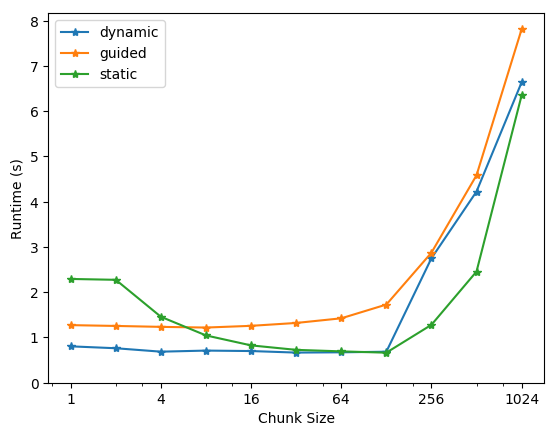
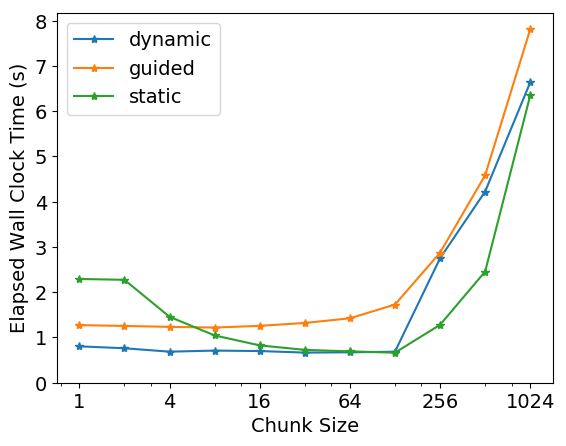
changes to vizualization file - chunk

Changed region(s): [[0.0, 0.0298, 1.0, 0.9839], [0.9156, 0.0596, 0.9461, 0.1193]]

diff --git a/data/vizchunksize.py b/data/vizchunksize.py
@@ -4,6 +4,10 @@ mpl.use('Agg')
 import matplotlib.pyplot as plt
 from matplotlib.ticker import ScalarFormatter
 
+font = {'size'   : 14}
+
+mpl.rc('font', **font)
+
 df1 = pd.read_csv('chunksize.dat',delim_whitespace=True,header=None,names=["Threads","ScheduleType","Chunks","MaxIter","Memory","MFlops","te"])
 
 plt.figure()
@@ -11,7 +15,7 @@ df1.set_index("Chunks", inplace=True)
 ax = df1.groupby("ScheduleType")["te"].plot(legend=True, style ='*-')
 plt.legend(loc='upper left')
 plt.xlabel('Chunk Size')
-plt.ylabel('Runtime (s)')
+plt.ylabel('Elapsed Wall Clock Time (s)')
 plt.gca().set_ylim(bottom=0)
 plt.xscale('log',basex=4)
 #plt.yscale('log',basey=2)
